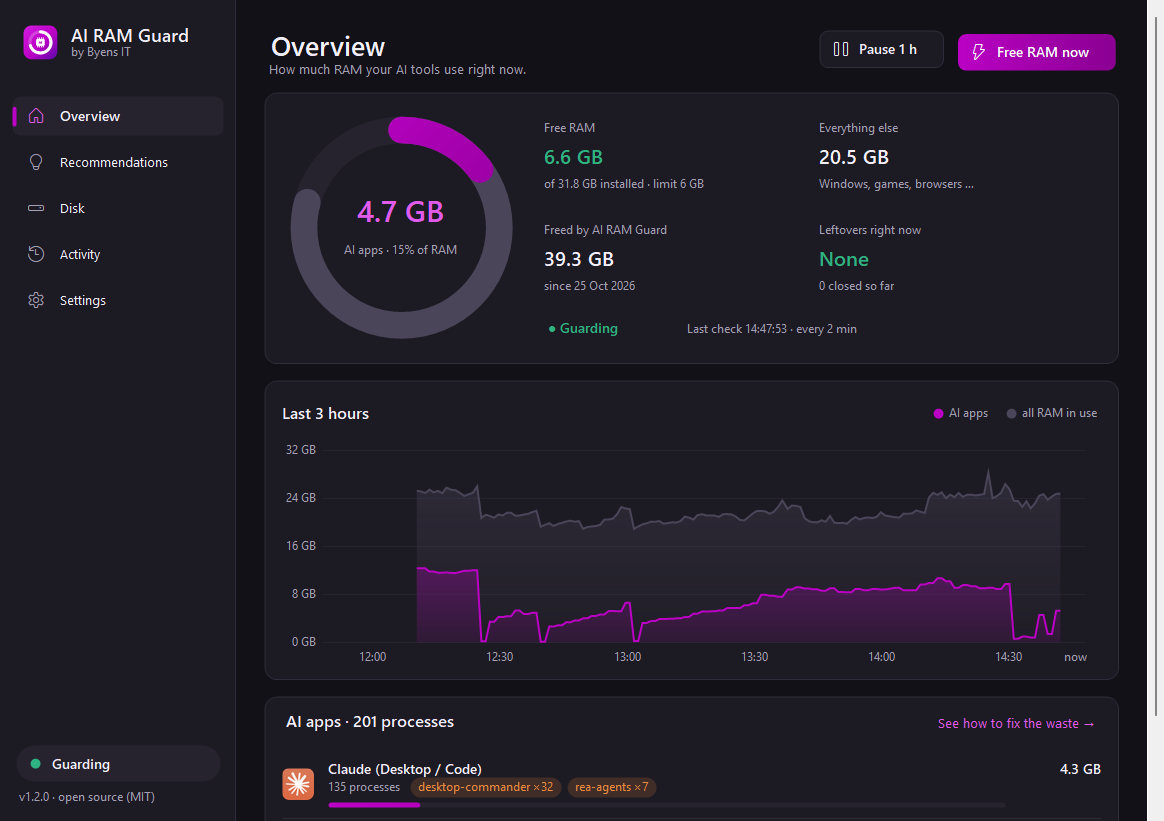
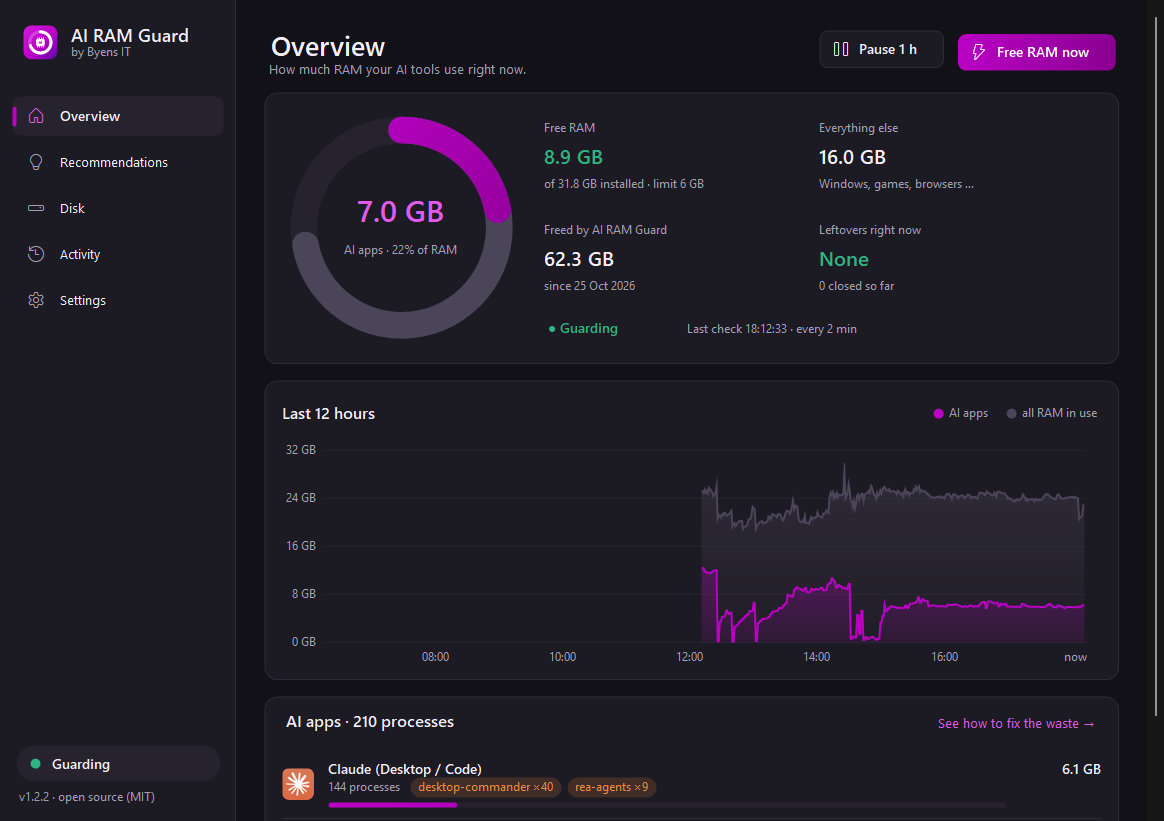
Fix the dark box over the first card; dark page scrollbars (1.2.2)
The header button panel used the default GrowOnly auto-size, so it kept
FlowLayoutPanel's 200x100 default and painted the page background over
the top right of the first card. GrowAndShrink sizes it to the buttons.

ApplyScrollbars existed but was never called, so page scrollbars were
white in the dark theme.

README screenshots used DrawToBitmap, which paints siblings in reverse
z-order and hid the bug. They now use PrintWindow after a DWM flush.

diff --git a/src/AiRamGuard.Tray/Screenshots.cs b/src/AiRamGuard.Tray/Screenshots.cs
@@ -34,17 +34,22 @@ static class Screenshots
         return 0;
     }
 
+    /// <summary>PrintWindow, not DrawToBitmap: DrawToBitmap paints siblings in reverse z-order and hid a header panel covering a card.</summary>
     static void Save(Form f, string path)
     {
+        // PW_RENDERFULLCONTENT reads DWM's copy: paint everything, then wait for DWM to take it, or the shot is a frame old.
+        f.Refresh();
+        DwmFlush();
         using var bmp = new Bitmap(f.ClientSize.Width, f.ClientSize.Height);
-        f.DrawToBitmap(bmp, new Rectangle(Point.Empty, f.ClientSize));
-        // DrawToBitmap includes the frame; crop to the client area.
-        var offset = f.PointToScreen(Point.Empty);
-        var frame = new Point(offset.X - f.Left, offset.Y - f.Top);
-        using var full = new Bitmap(f.Width, f.Height);
-        f.DrawToBitmap(full, new Rectangle(Point.Empty, f.Size));
-        using var g = Graphics.FromImage(bmp);
-        g.DrawImage(full, new Rectangle(Point.Empty, f.ClientSize), new Rectangle(frame, f.ClientSize), GraphicsUnit.Pixel);
+        using (var g = Graphics.FromImage(bmp))
+        {
+            var hdc = g.GetHdc();
+            try { PrintWindow(f.Handle, hdc, 0x1 | 0x2); } // PW_CLIENTONLY | PW_RENDERFULLCONTENT
+            finally { g.ReleaseHdc(hdc); }
+        }
         bmp.Save(path, System.Drawing.Imaging.ImageFormat.Png);
     }
+
+    [System.Runtime.InteropServices.DllImport("user32.dll")] static extern bool PrintWindow(IntPtr hwnd, IntPtr hdc, uint flags);
+    [System.Runtime.InteropServices.DllImport("dwmapi.dll")] static extern int DwmFlush();
 }

diff --git a/src/AiRamGuard.Tray/MainForm.cs b/src/AiRamGuard.Tray/MainForm.cs
@@ -97,13 +97,15 @@ abstract class Page : Panel
     protected readonly FlowLayoutPanel Stack = new() { FlowDirection = FlowDirection.TopDown, WrapContents = false, AutoSize = true, Location = new Point(28, 92) };
     protected readonly Label Heading = new() { AutoSize = true, Location = new Point(28, 26) };
     protected readonly Label Sub = new() { AutoSize = true, Location = new Point(30, 60) };
-    protected readonly FlowLayoutPanel Actions = new() { AutoSize = true, FlowDirection = FlowDirection.LeftToRight, WrapContents = false };
+    // GrowAndShrink: with the default GrowOnly the panel keeps its 200×100 default size and paints over the first card.
+    protected readonly FlowLayoutPanel Actions = new() { AutoSize = true, AutoSizeMode = AutoSizeMode.GrowAndShrink, FlowDirection = FlowDirection.LeftToRight, WrapContents = false };
 
     protected Page(string title, string subtitle)
     {
         var t = Theme.Current;
         Dock = DockStyle.Fill;
         AutoScroll = true;
+        t.ApplyScrollbars(this);
         BackColor = t.Bg;
         Heading.Text = title;
         Heading.Font = t.Heading;

diff --git a/CHANGELOG.md b/CHANGELOG.md
@@ -1,5 +1,12 @@
 # Changelog
 
+## 1.2.2 (2026-10-25)
+
+**Fix**
+- A dark box covered the top right of the first card on every page (on Overview the *Everything else* tile). The header button panel kept its 200×100 default height and painted over the card.
+- Page scrollbars are dark in the dark theme instead of white.
+- README screenshots are now captured with `PrintWindow`, which shows controls in their real stacking order, so a bug like the one above shows up in them.
+
 ## 1.2.1 (2026-10-25)
 
 **Fix**
